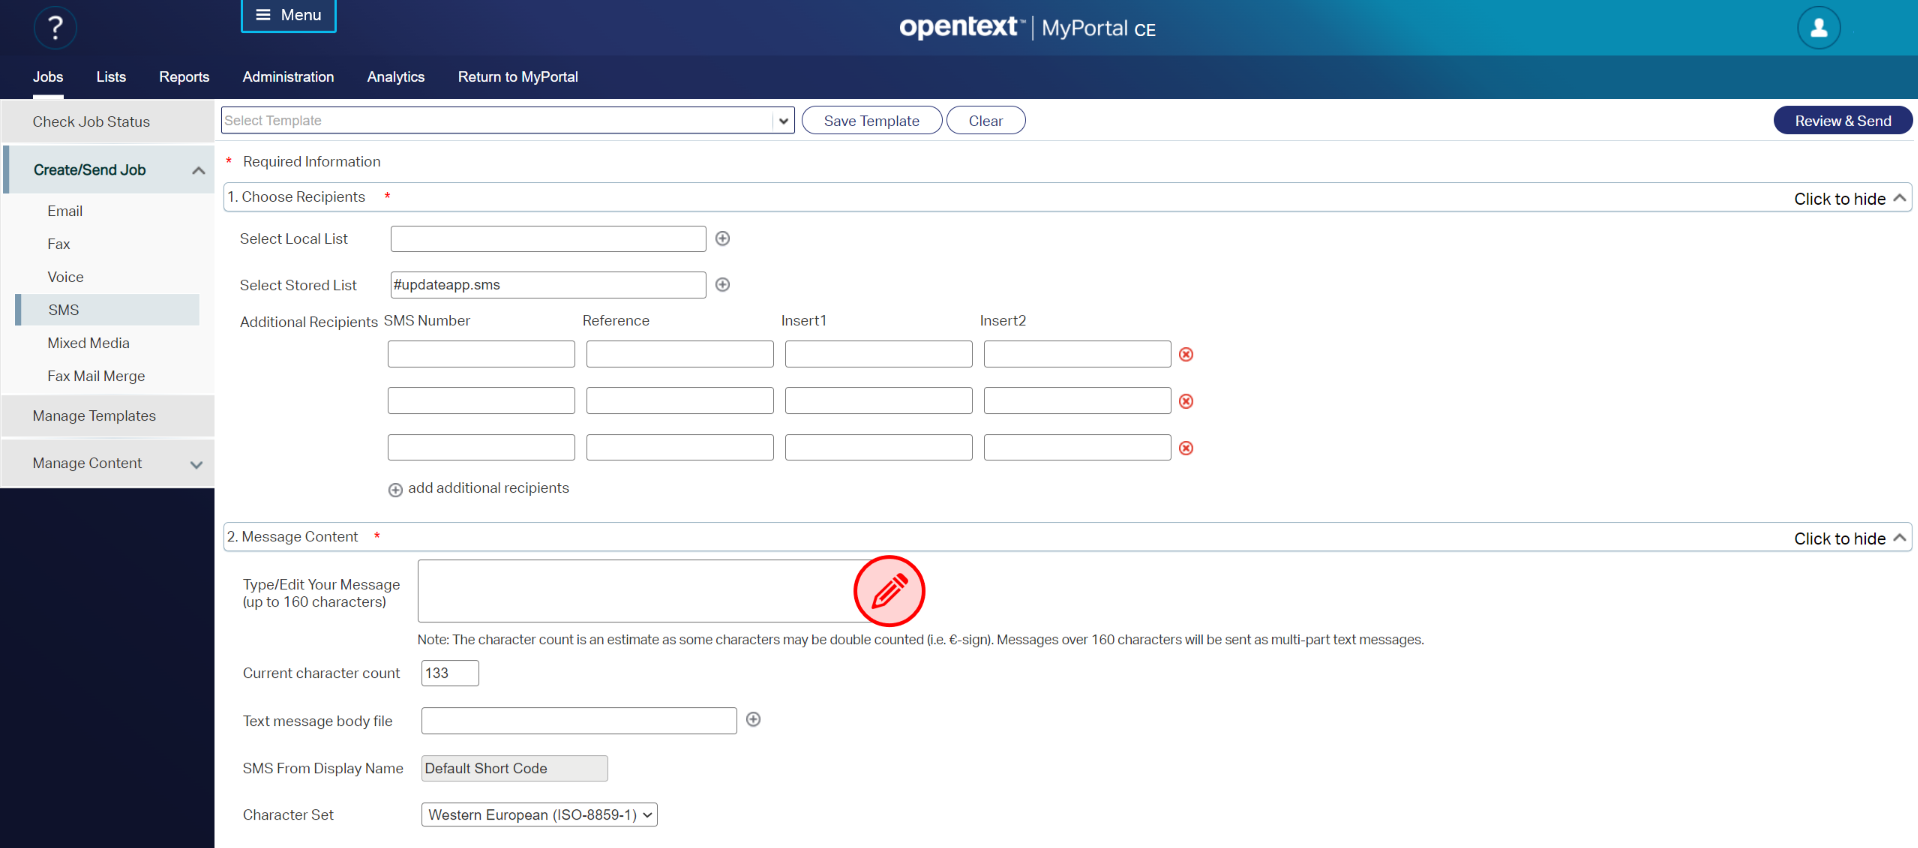
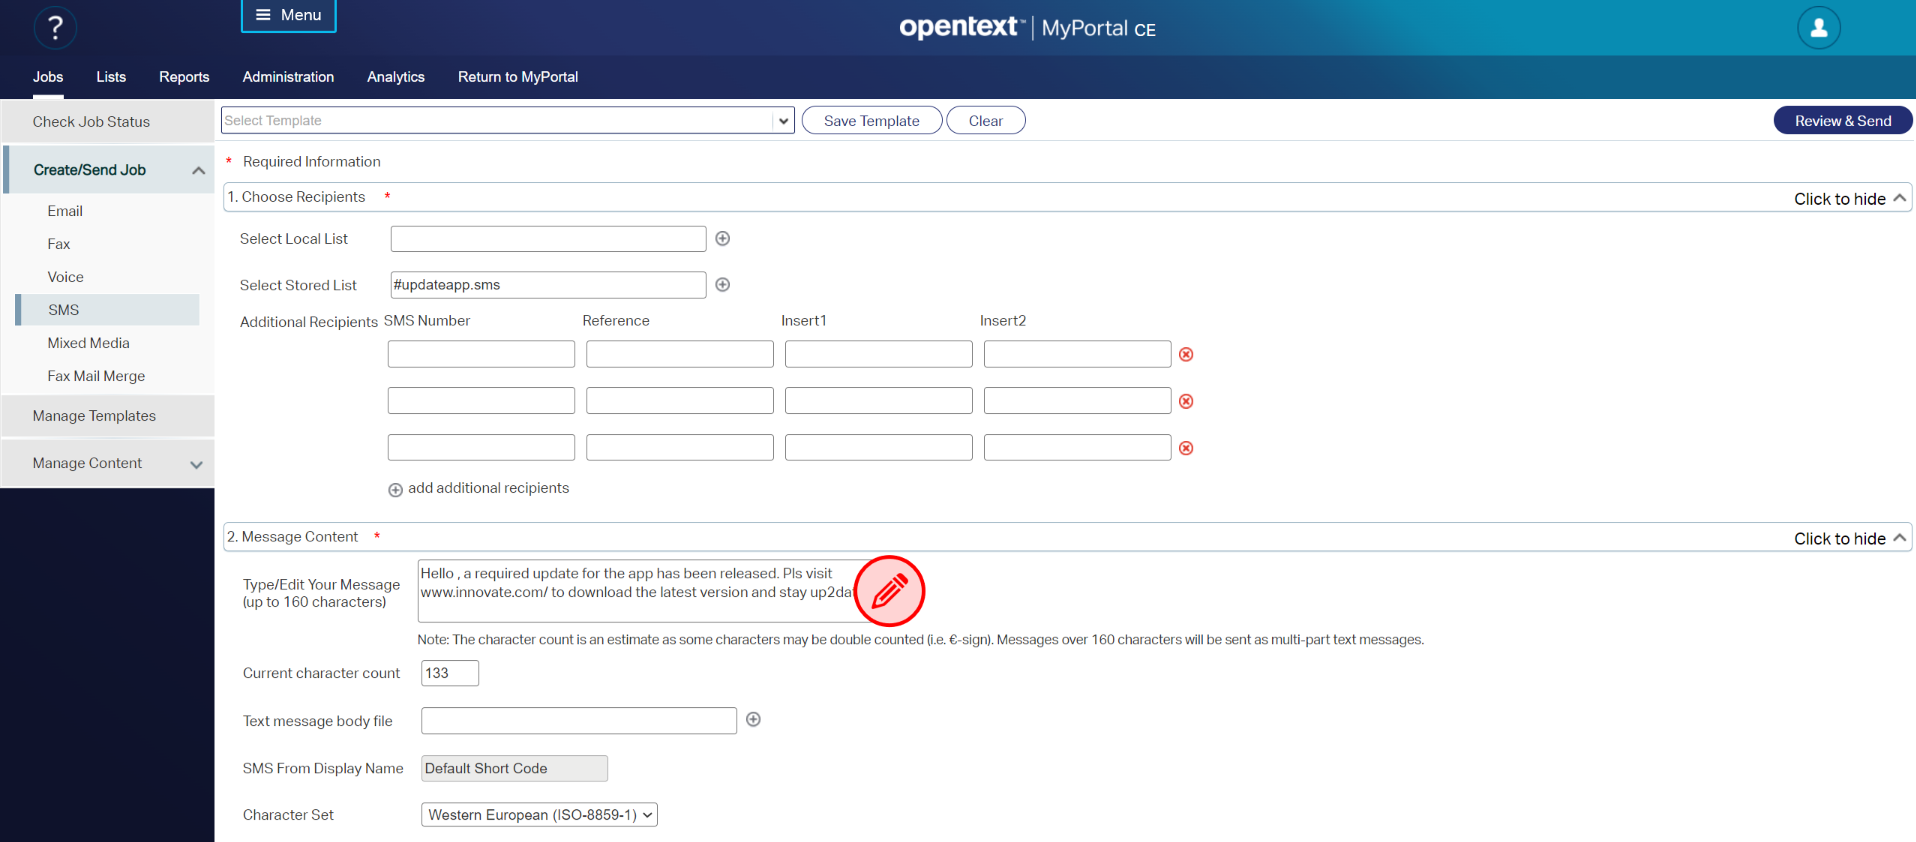
Send SMS with OpenText Notifications

diff --git a/_posts/2023-08-11-send-sms-with-opentext-notifications.md b/_posts/2023-08-11-send-sms-with-opentext-notifications.md
@@ -87,3 +87,14 @@ In the `Select stored list` pop-up:
  
   ![Select stored list](../images/2023-08-11-send-sms-with-opentext-notifications/07-myportal-select-stored-list.png)
  
+ - Introduce the text for your message in the text box `Type/edit your message`, i.e.
+ 
+ ```
+ Hello, a required update for your app has been released, Pls visit www.innovate.com/ 
+ to download the latest version and stay up2date
+ ```
+  
+  ![Select stored list](../images/2023-08-11-send-sms-with-opentext-notifications/08-myportal-type-edit-your-message.png)
+ 
+ 
+WORK IN PROGRESS!!!
